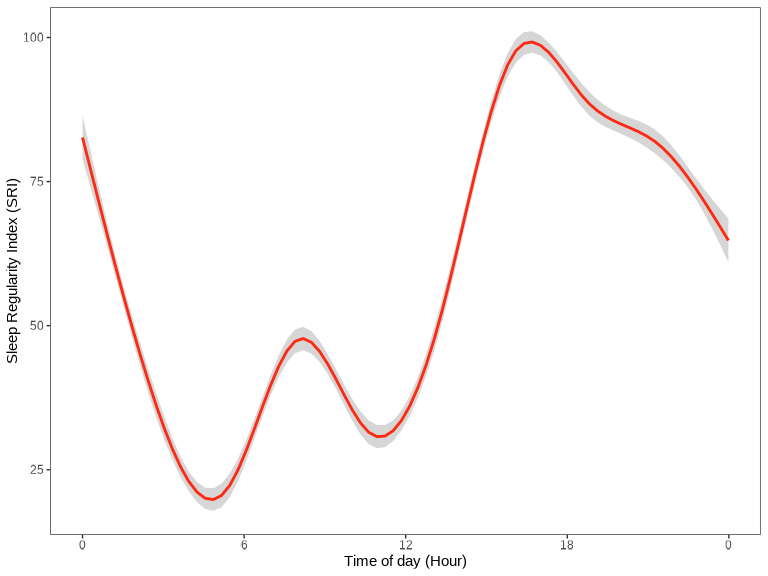
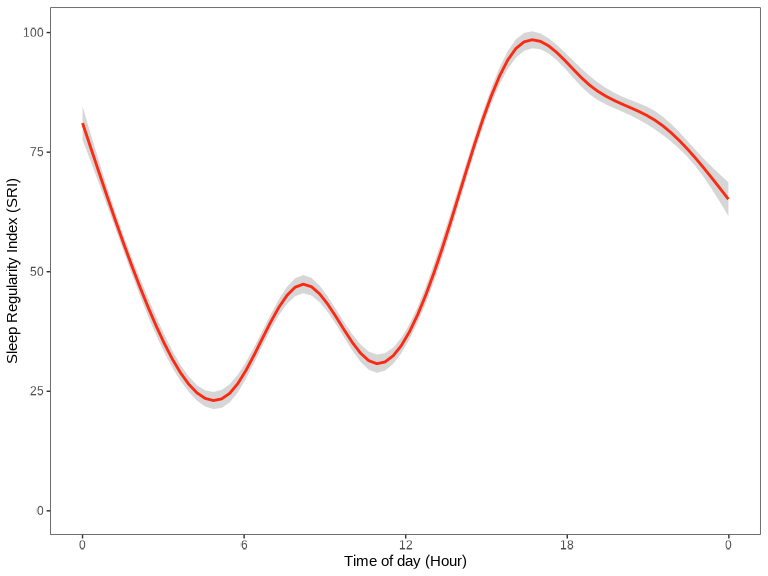
Update documentation

diff --git a/README.md b/README.md
@@ -180,9 +180,10 @@ sri_data |>
     y = "Sleep Regularity Index (SRI)"
   ) +
   scale_x_time(
-    breaks = scales::breaks_width("6 hours"),
-    labels = scales::label_time("%-H") # Use "%#H" for Windows
+    breaks = breaks_width("6 hours"),
+    labels = label_time("%-H") # Use "%#H" for Windows
   ) +
+  scale_y_continuous(limits = c(0, NA)) +
   actverse:::get_actverse_theme()
 ```
 
